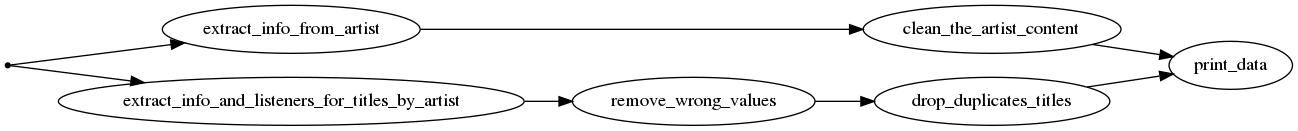
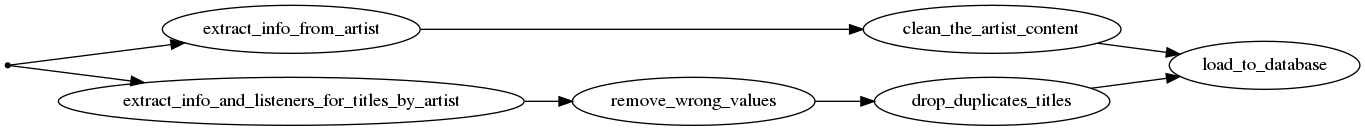
load ok

Changed region(s): [[0.0, 0.0305, 1.0, 0.9771], [0.0616, 0.0305, 0.339, 0.4275], [0.0308, 0.7023, 0.0616, 0.855]]

diff --git a/run.py b/run.py
@@ -17,7 +17,6 @@ def extract_info_from_artist(artist_names: list):
         print('Search information for artist {} ...'.format(str(name)))
         yield {name: artist_info['artist']['bio']['content']}
 
-
 def extract_info_and_listeners_for_titles_by_artist(artist_names: list):
     for name in artist_names:
         # get the artist id from artist name
@@ -62,7 +61,7 @@ def extract_info_and_listeners_for_titles_by_artist(artist_names: list):
                         print(
                             'Found playcount from last.fm and informations from discogs.com for title {}'.format(title))
                         # sleep 3 secs to don't miss requests
-                        # time.sleep(1)
+                        time.sleep(3)
                 else:
                     print('Not found playcount from last.fm for title {}'.format(title))
             except:
@@ -70,7 +69,6 @@ def extract_info_and_listeners_for_titles_by_artist(artist_names: list):
                 continue
 
         yield {name: releases_info}
-
 
 def clean_the_artist_content(content: dict):
     content_df = pd.DataFrame(content.values(), columns=['Content'], index=content.keys())
@@ -83,7 +81,6 @@ def clean_the_artist_content(content: dict):
     print('Clean the informations text')
 
     yield content_df.to_dict(orient='index')
-
 
 def remove_wrong_values(releases: dict):
     key = list(releases.keys())
@@ -99,7 +96,6 @@ def remove_wrong_values(releases: dict):
 
     yield {artist: df.to_dict(orient='records')}
 
-
 def drop_duplicates_titles(releases: dict):
     key = list(releases.keys())
     artist = str(key[0])
@@ -111,35 +107,38 @@ def drop_duplicates_titles(releases: dict):
 
     yield {artist: df.to_dict(orient='index')}
 
-
-def print_data(data):
-    print(data)
-    yield data
-
-
 def load_to_database(data):
-    client = pymongo.MongoClient(
-        "mongodb+srv://user:AotD8lF0WspDIA4i@cluster0.qtikgbg.mongodb.net/?retryWrites=true&w=majority")
-    db = client["mydatabase"]
+    client = pymongo.MongoClient('mongodb+srv://user:AotD8lF0WspDIA4i@cluster0.qtikgbg.mongodb.net/?retryWrites=true&w=majority')
+    db = client['mydatabase']
     artists = db['artists']
 
-    artists.insert_one(data)
-    print('Artist {} insert to DataBase!'.format(data['Artist']))
+    # find artist name
+    key = list(data.keys())
+    artist = str(key[0])
+
+    # check if the data stream is the description artist or releases
+    if 'Content' in data[artist].keys():
+        artists.insert_one({'Artist': artist,
+                            'Description': data[artist]['Content']})
+        print('----Description for Artist {} insert to DataBase!----'.format(artist))
+    else:
+        artists.update_one({'Artist': artist}, {'$set': {'Releases': data[artist]}})
+        print('----Releases for Artist {} insert to DataBase!----'.format(artist))
 
 
 if __name__ == '__main__':
     # find names from csv file
     df = pd.read_csv('spotify_artist_data.csv')
     artist_names = list(df['Artist Name'].unique())
-    artist_names = artist_names[:1]
+    artist_names = artist_names[:2]
 
     # define graph
     graph = bonobo.Graph()
 
     # set _input to None, so the function won't start on ts own but only after it receives input from the other chains.
-    graph.add_chain(print_data, _input=None)
-    graph.add_chain(extract_info_from_artist(artist_names), clean_the_artist_content, _output=print_data)
+    graph.add_chain(load_to_database, _input=None)
+    graph.add_chain(extract_info_from_artist(artist_names), clean_the_artist_content, _output=load_to_database)
     graph.add_chain(extract_info_and_listeners_for_titles_by_artist(artist_names), remove_wrong_values,
-                    drop_duplicates_titles, _output=print_data)
+                    drop_duplicates_titles, _output=load_to_database)
 
     bonobo.run(graph)
